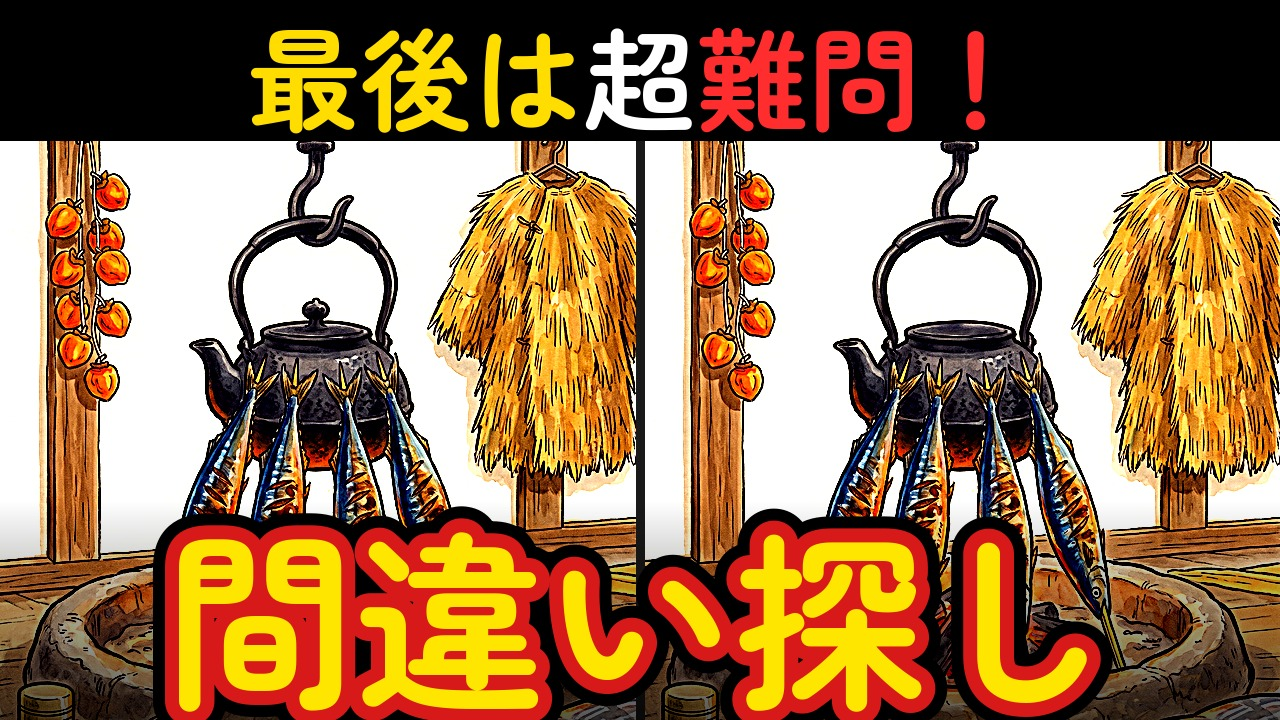
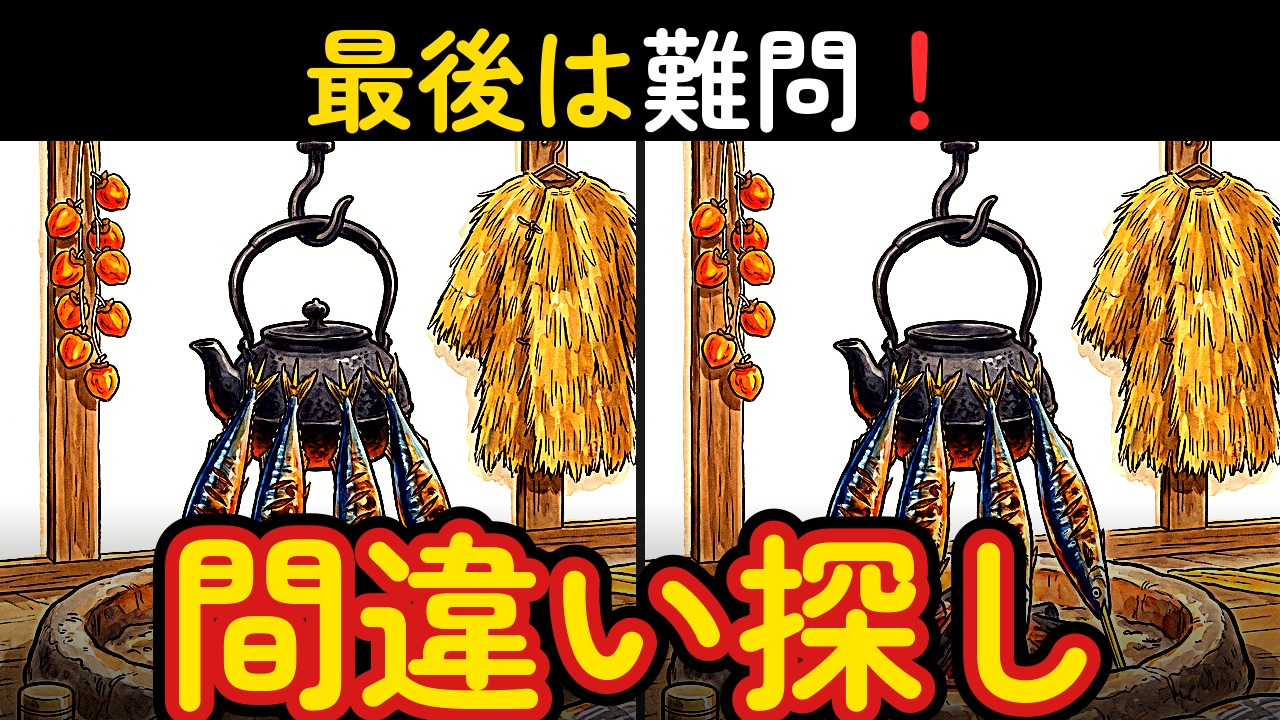
第6回：監査の差し戻し1に対応（第3問③は取っ手を消す形に、サムネ案Bの「超」をとる）
Claude-Session: https://claude.ai/code/session_01RF3BnfrPSRk1U21VXW6Yry

Changed region(s): [[0.1875, 0.0306, 0.7812, 0.1833]]

diff --git a/scripts/custom/ep006_fix.py b/scripts/custom/ep006_fix.py
@@ -36,3 +36,31 @@ A[y0:y1, x0:x1] = np.clip(paper + noise / 4, 0, 255)
 Image.fromarray(np.clip(A, 0, 255).astype(np.uint8)).save(p)
 
 
+
+
+# 第3問③：七輪の通風口の取っ手を消す（監査の差し戻し1：左右反対では見分けられない）。無地の扉なので、扉の色でうめる → edit_3_noh.png
+a3 = Image.open(w / "q3_a.png").convert("RGB")
+A3 = np.asarray(a3).astype(float)
+x0, y0, x1, y1 = 966, 1655, 1090, 1728
+C = A3[y0:y1, x0:x1]
+L = C.mean(2)
+door = np.median(C[(L > np.percentile(L, 10)) & (L < np.percentile(L, 60))], 0)
+handle = np.abs(L - door.mean()) > 28                                     # 扉の色と違う所（取っ手と、その黒い線）
+handle = ndimage.binary_dilation(handle, iterations=3)
+handle = ndimage.binary_dilation(np.abs(L - door.mean()) > 28, iterations=2)
+rng3 = np.random.default_rng(9)
+grain = C - np.asarray(Image.fromarray(C.astype(np.uint8)).filter(ImageFilter.GaussianBlur(4))).astype(float)
+gstd = grain[~handle].std(0)
+for yy in range(C.shape[0]):                       # 行ごとに、取っ手の左右の扉の色をつないでうめる
+    xs = np.nonzero(handle[yy])[0]
+    if len(xs) == 0:
+        continue
+    l, r = max(xs.min() - 1, 0), min(xs.max() + 1, C.shape[1] - 1)
+    left = C[yy, max(l - 4, 0):l + 1].mean(0); right = C[yy, r:r + 5].mean(0)
+    t = np.linspace(0, 1, r - l + 1)[:, None]
+    seg = left * (1 - t) + right * t + rng3.normal(0, 1, (r - l + 1, 3)) * gstd
+    C[yy, l:r + 1] = np.where(handle[yy, l:r + 1, None], seg, C[yy, l:r + 1])
+bl = np.asarray(Image.fromarray(np.clip(C, 0, 255).astype(np.uint8)).filter(ImageFilter.GaussianBlur(3))).astype(float)
+C = np.where(handle[..., None], bl + rng3.normal(0, 1, C.shape) * gstd * 0.8, C)      # 行のすじをならして、扉のざらつきを足す
+A3[y0:y1, x0:x1] = C
+Image.fromarray(np.clip(A3, 0, 255).astype(np.uint8)).save(w / "edit_3_noh.png")

diff --git a/departments/audit/log.md b/departments/audit/log.md
@@ -27,3 +27,5 @@
 | 2026-11-11 | 005 ショート | 第5回 第4問（公民館・中級）縦1080×1920・43.5秒 video.mp4（3,399,215バイト）・short/timeline.json・short/check.json・short/voice.json・short/sheet.png | 合格（一発合格） | 上の絵＝q4_a、下の絵＝q4_b（縮小した絵との差の99%点11）。違い3つは長尺と同じ範囲で、散らばり（中心の距離の最小32.5%・すき間24.5%）を満たす。いちばん下の違い③植木の葉は画面 y≈1508〜1553（中心1530）で、目安 y≈1550 にほぼ収まり、画面下の文字にかからない。長さ43.5秒、0.3秒から問いかけ、25秒で答え合わせ、37.5秒から「続きは長い動画で」とこよみ先生。赤丸は3つの範囲。声6つとも枠に収まり、割れ0。注意：長尺の第4問②を替える場合はショートも作り直して再審査。説明欄は長尺アップロード後。ショート12:00より前に長尺が公開されていること。 |
 | 2026-11-11 | 005（再審査1） | 本番 第5回 秋の間違い探し5問「七五三とゆず」video.mp4（2026-11-11 13:10版・615秒・202,800,807バイト）・q2_b・q4_b・answers.json・timeline.json・plan.json・plan.md・cost.md・image_usage.jsonl・edits/・voice.json・scripts/custom/ep005_clean.py（コミット 5b774c3） | 合格 | 前回の理由は解消：第2問②は描き直しを使わず、元の絵の花びんの胴だけを細くした。枝・葉・ゆずは元のまま。変わった範囲は幅150px×高さ163px（花びんの胴だけ）で、物の幅3.66%は初級の範囲。セリフ「花びんが、細くなりました。」と合う。たたみのゆずは60px下 [1134,1537,1272,1675] へ移り、座布団の角に乗って見えて自然。散らばり：花びんとゆずは中心の距離31.0%・すき間19.0%。第4問②は「梁から出ている木の頭がない」[1503,236,1580,296] に替わり、時計の針のくり返しはなくなった。方づえの上の端のぼかしは、2.5倍の拡大ではやわらかく見えるが、画面の大きさでは水彩のにじみになじみ、方づえが梁に入る形に見える。物の幅1.91%は中級の下限（約2%）として認める。範囲の外の差は第2・4問とも範囲から12px以内。動画の5問の絵は q*_a/b と一致（差の99%点14以下）。赤丸の位置は新しい answers どおり。44セリフとも枠に収まる（q2_ans2 2.21秒・q4_ans2 2.83秒／4.3秒）。長さ615秒。注意：cost.md の回数は15回・約151円に直ったが、トークンの合計が14回分のまま（15回目の1,827を足して合計30,717）。一発合格ではない（差し戻し1回）。 |
 | 2026-11-11 | 005 ショート（作り直し） | 第5回 第4問（公民館・中級）縦1080×1920・43.5秒 video.mp4（3,399,614バイト、2026-11-11 13:05版）・short/timeline.json・short/check.json・short/voice.json | 合格 | 上の絵＝q4_a、下の絵＝新しい q4_b（差の99%点11）。36.5秒の答え合わせで、赤丸②は梁の木の頭を囲む。違い3つの散らばりは長尺と同じで満たしている（中心の距離の最小55.8%）。いちばん下の違い（植木の葉）は前と同じで、y≈1530。声6つとも枠に収まり（s_ans2 3.05秒／3.5秒）、割れ0。注意：②は縦画面で約28pxと小さいが、中級として認める。ショート12:00より前に長尺が公開されていること。前の版は第4問を替える前に合格を出していたが、第4問を替えたため作り直しとして審査し直した。 |
+| 2026-11-14 | 006 | 本番 第6回 秋の間違い探し5問「さんま」（食卓・漁港・七輪の路地・海辺・囲炉裏端）video.mp4 615秒・q1〜q5・answers.json・check.json・timeline.json・plan.json・plan.md・description.md・thumbnail.jpg・ab/・cost.md・image_usage.jsonl・voice.json（コミット ba538db） | 不合格（差し戻し） | 合格：範囲外の差は全問で範囲から12px以内（縁のにじみ）。動画の出題画面は q3_a/b と一致（差の99%点18〜20）。散らばりは中心距離の最小36%（第5問）。冒頭0秒から本題と予告（声9.99秒）、出題中の「あと60秒・30秒・10秒」、4:16のコメントのお願い、称号・次の動画、こよみ先生は左下・字幕の横、目次の時刻は timeline と一致。うんちく（落語「目黒のさんま」のオチ）は出典どおり。茶筒は文字が消え、残った筆のむらは画面の大きさでは模様に見える（可）。「やさしい」4〜6%は第1問は易しく（11/12 CEO承認）の範囲として可。ただし難易度表にないので、次の会議でCEOに確認し表に足すこと。費用約181円（目安150円超え）は品質の判定外で、事業部長が週次でCEOに報告すること。不合格：(1) 第3問③「七輪の取っ手の向き」：取っ手はほぼ左右対称の形で、反転しても形が変わらない。違いは右端の小さな黒い点の位置だけで、画面上で差>30は448画素。描き直しの範囲の左側に、平たい茶色のにじみ（継ぎ目）も残っている。答え合わせで「反対を向いています」と言われても見えない。→ 取っ手を消す（物がない）か、ほかの物で中級2〜3%の見える違いに替え、継ぎ目のない貼り戻しで作り直す。向きの違いを使うなら、形がはっきり非対称な物（うちわの柄・猫の顔の向きなど）にする。(2) ab/thumb_B.jpg「最後は超難問！」：第5問は上級の標準（1.89〜2.16%）で、動画でも「最後は難問です」と言っている。「超」は誇大になる。→「最後は難問！」に直す。 |
+| 2026-11-14 | 006 ショート | 第6回 第4問（海辺・中級）縦1080×1920・43.5秒 video.mp4（4,505,193バイト）・short/timeline.json・short/check.json・short/voice.json・short/sheet.png | 合格（一発合格） | 上の絵＝q4_a、下の絵＝q4_b（10秒のフレームと縮小した絵の差の99%点19。入れ替えると64〜69）。下の絵で変わった画素の一番下は画面 y≈1540 で、目安の y≈1550 より上。0.3秒から問いかけ、25秒から答え合わせ、赤丸3つは灯台・干したさんま・カモメの位置、37.9秒に「続きは、長い動画で」。セリフ6つとも枠に収まり、音割れ0。 |

diff --git a/outputs/2026-11-16_006/plan.md b/outputs/2026-11-16_006/plan.md
@@ -22,7 +22,7 @@
 |---|---|---|---|
 | 1 | やさしい | 食卓（46・新規） | つけものの小皿が増える 5.12%・さんまの尾びれがない 5.39%・すだちが増える 4.53% |
 | 2 | 初級 | 漁港（34） | 船の黄色い浮きがない 3.45%・海に浮きが増える 3.53%・浮きのひもの結び目がない 3.56% |
-| 3 | 中級 | 七輪の路地（47・新規） | 窓の花が増える 2.21%・壁にひしゃく 2.29%・取っ手の向き 2.69% |
+| 3 | 中級 | 七輪の路地（47・新規） | 窓の花が増える 2.21%・壁にひしゃく 2.29%・七輪の取っ手がない 2.69% |
 | 4 | 中級 | 海辺（33） | 灯台のてっぺんの形 2.56%・干したさんまが1匹へる 2.69%・カモメが増える 2.69% |
 | 5 | 上級 | 囲炉裏端（48・新規） | 干し柿が1つへる 2.16%・みのの結びひもがない 1.89%・鉄びんのつまみがない 1.89% |
 

diff --git a/outputs/2026-11-16_006/ab/README.md b/outputs/2026-11-16_006/ab/README.md
@@ -6,7 +6,7 @@ CEOが予約公開を設定するときに、パソコンのYouTube Studioで「
 | 案 | ファイル | 上の言葉 | 絵 |
 |---|---|---|---|
 | A（アップロード時に設定） | thumb_A.jpg | 3つ見つけたら天才！ | 第1問（食卓の焼きさんま） |
-| B | thumb_B.jpg | 最後は超難問！ | 第5問（囲炉裏端） |
+| B | thumb_B.jpg | 最後は難問！（監査の指摘で「超」をとった） | 第5問（囲炉裏端） |
 | C | thumb_C.jpg | 全部見つけられる？ | 第2問（漁港） |
 
 ## タイトル（型 `【間違い探し】シニアの脳トレ｜XXX【60代・70代の脳トレ】`。XXXだけ変える）
